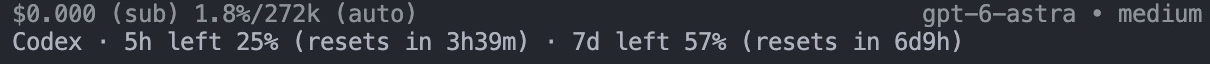
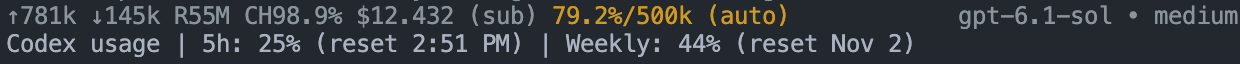
feat: clarify Codex usage with local reset times

diff --git a/tests/usage.test.ts b/tests/usage.test.ts
@@ -39,6 +39,7 @@ function createHost(provider = "openai-codex", mode = "tui", oauth = true) {
   const events = new Map<string, Handler>();
   const commands = new Map<string, Command>();
   const statuses = new Map<string, string>();
+  const setWidget = vi.fn<ExtensionContext["ui"]["setWidget"]>();
   const setStatus = vi.fn<ExtensionContext["ui"]["setStatus"]>((key, text) => {
     if (text === undefined) statuses.delete(key);
     else statuses.set(key, text);
@@ -55,7 +56,7 @@ function createHost(provider = "openai-codex", mode = "tui", oauth = true) {
       isUsingOAuth,
       getProviderAuth,
     },
-    ui: { setStatus },
+    ui: { setStatus, setWidget },
   } as unknown as ExtensionCommandContext;
   const pi = {
     on: (name: string, handler: Handler) => events.set(name, handler),
@@ -65,6 +66,7 @@ function createHost(provider = "openai-codex", mode = "tui", oauth = true) {
   return {
     ctx,
     setStatus,
+    setWidget,
     getProviderAuth,
     isUsingOAuth,
     get status() {
@@ -73,20 +75,22 @@ function createHost(provider = "openai-codex", mode = "tui", oauth = true) {
     async emit(name: string, event: unknown = {}) {
       await events.get(name)?.(event, ctx);
     },
-    async command(name = "usage") {
+    async command(name = "usage", args = "") {
       const command = commands.get(name);
       if (!command) throw new Error(`Command /${name} is not registered`);
-      await command.handler("", ctx);
+      await command.handler(args, ctx);
     },
   };
 }
 
 beforeEach(() => {
+  vi.stubEnv("TZ", "UTC");
   vi.useFakeTimers();
   vi.setSystemTime(new Date("2026-01-01T00:00:00Z"));
 });
 
 afterEach(() => {
+  vi.unstubAllEnvs();
   vi.unstubAllGlobals();
   vi.useRealTimers();
 });
@@ -102,7 +106,8 @@ describe("Codex usage in Pi", () => {
     await host.emit("session_start");
     await vi.advanceTimersByTimeAsync(0);
 
-    expect(host.status).toBe("Codex · 5h left 82% (resets in 2h) · 7d left 66% (resets in 3d)");
+    expect(host.status).toBe("Codex usage | 5h: 82% (reset 2:00 AM) | Weekly: 66% (reset Jan 4)");
+    expect(host.setWidget).not.toHaveBeenCalled();
   });
 
   it("refreshes the displayed quota with /usage", async () => {
@@ -117,7 +122,7 @@ describe("Codex usage in Pi", () => {
 
     await host.command();
 
-    expect(host.status).toBe("Codex · 5h left 49% (resets in 2h) · 7d left 66% (resets in 3d)");
+    expect(host.status).toBe("Codex usage | 5h: 49% (reset 2:00 AM) | Weekly: 66% (reset Jan 4)");
   });
 
   it("polls once per minute instead of continuously", async () => {
@@ -135,7 +140,7 @@ describe("Codex usage in Pi", () => {
     await vi.advanceTimersByTimeAsync(1);
 
     expect(fetchUsage).toHaveBeenCalledTimes(2);
-    expect(host.status).toContain("5h left 49%");
+    expect(host.status).toBe("Codex usage | 5h: 49% (reset 2:00 AM) | Weekly: 66% (reset Jan 4)");
   });
 
   it("does not block startup and shares overlapping manual refreshes", async () => {
@@ -158,7 +163,7 @@ describe("Codex usage in Pi", () => {
 
     respond(quotaResponse());
     await Promise.all([first, second]);
-    expect(host.status).toContain("5h left 82%");
+    expect(host.status).toBe("Codex usage | 5h: 82% (reset 2:00 AM) | Weekly: 66% (reset Jan 4)");
   });
 
   it("keeps the last good quota visibly stale after a failed refresh", async () => {
@@ -172,8 +177,9 @@ describe("Codex usage in Pi", () => {
 
     await host.command();
 
-    expect(host.status).toContain("5h left 82%");
-    expect(host.status).toContain("stale");
+    expect(host.status).toBe(
+      "Codex usage | 5h: 82% (reset 2:00 AM) | Weekly: 66% (reset Jan 4) | stale (0m old)",
+    );
   });
 
   it("shows unknown rather than treating an unsuccessful HTTP response as quota", async () => {
@@ -186,7 +192,7 @@ describe("Codex usage in Pi", () => {
     await host.emit("session_start");
     await vi.advanceTimersByTimeAsync(0);
 
-    expect(host.status).toBe("Codex · usage unknown");
+    expect(host.status).toBe("Codex usage | unknown");
   });
 
   it.each([
@@ -205,7 +211,7 @@ describe("Codex usage in Pi", () => {
     await host.emit("session_start");
     await vi.advanceTimersByTimeAsync(0);
 
-    expect(host.status).toBe("Codex · usage unknown");
+    expect(host.status).toBe("Codex usage | unknown");
   });
 
   it("backs off repeated failures and returns to minute polling after recovery", async () => {
@@ -225,8 +231,7 @@ describe("Codex usage in Pi", () => {
     await vi.advanceTimersByTimeAsync(239_999);
     expect(fetchUsage).toHaveBeenCalledTimes(2);
     await vi.advanceTimersByTimeAsync(1);
-    expect(host.status).toContain("5h left 82%");
-    expect(host.status).not.toContain("stale");
+    expect(host.status).toBe("Codex usage | 5h: 82% (reset 2:00 AM) | Weekly: 66% (reset Jan 4)");
     await vi.advanceTimersByTimeAsync(60_000);
     expect(fetchUsage).toHaveBeenCalledTimes(4);
   });
@@ -278,7 +283,7 @@ describe("Codex usage in Pi", () => {
     host.ctx.model = { ...host.ctx.model!, provider: "openai-codex" };
     await host.emit("model_select", { model: host.ctx.model });
     await vi.advanceTimersByTimeAsync(0);
-    expect(host.status).toContain("5h left 82%");
+    expect(host.status).toBe("Codex usage | 5h: 82% (reset 2:00 AM) | Weekly: 66% (reset Jan 4)");
   });
 
   it("clears the status and polling timer when the extension runtime shuts down", async () => {
@@ -319,7 +324,7 @@ describe("Codex usage in Pi", () => {
     await vi.advanceTimersByTimeAsync(1);
 
     expect(requestSignal?.aborted).toBe(true);
-    expect(host.status).toBe("Codex · usage unknown");
+    expect(host.status).toBe("Codex usage | unknown");
   });
 
   it("also bounds credential resolution and never sends a query with late credentials", async () => {
@@ -336,14 +341,14 @@ describe("Codex usage in Pi", () => {
     await host.emit("session_start");
 
     await vi.advanceTimersByTimeAsync(10_000);
-    expect(host.status).toBe("Codex · usage unknown");
+    expect(host.status).toBe("Codex usage | unknown");
     await host.command();
-    expect(host.status).toContain("5h left 82%");
+    expect(host.status).toBe("Codex usage | 5h: 82% (reset 2:00 AM) | Weekly: 66% (reset Jan 4)");
 
     authenticate({ auth: { apiKey: token } });
     await vi.advanceTimersByTimeAsync(0);
     expect(fetchUsage).toHaveBeenCalledTimes(1);
-    expect(host.status).not.toContain("stale");
+    expect(host.status).toBe("Codex usage | 5h: 82% (reset 2:00 AM) | Weekly: 66% (reset Jan 4)");
   });
 
   it.each(["180", "Thu, 01 Jan 2026 00:03:00 GMT"])(
@@ -367,7 +372,7 @@ describe("Codex usage in Pi", () => {
       expect(fetchUsage).toHaveBeenCalledTimes(1);
       await vi.advanceTimersByTimeAsync(1);
       expect(fetchUsage).toHaveBeenCalledTimes(2);
-      expect(host.status).toContain("5h left 82%");
+      expect(host.status).toBe("Codex usage | 5h: 82% (reset 2:00 AM) | Weekly: 66% (reset Jan 4)");
     },
   );
 
@@ -405,7 +410,7 @@ describe("Codex usage in Pi", () => {
     await vi.advanceTimersByTimeAsync(0);
 
     expect(fetchUsage).not.toHaveBeenCalled();
-    expect(host.status).toBe("Codex · usage unknown");
+    expect(host.status).toBe("Codex usage | unknown");
   });
 
   it.each([
@@ -426,7 +431,7 @@ describe("Codex usage in Pi", () => {
 
     await host.command();
 
-    expect(host.status).toBe("Codex · usage unknown");
+    expect(host.status).toBe("Codex usage | unknown");
   });
 
   it("hides previous quota and stops polling when OAuth is no longer available", async () => {
@@ -472,10 +477,10 @@ describe("Codex usage in Pi", () => {
     await host.command();
 
     expect(fetchUsage).toHaveBeenCalledTimes(3);
-    expect(host.status).toContain("5h left 49%");
+    expect(host.status).toBe("Codex usage | 5h: 49% (reset 2:00 AM) | Weekly: 66% (reset Jan 4)");
   });
 
-  it("keeps day-scale reset countdowns informative after a minute elapses", async () => {
+  it("keeps absolute reset times stable without redrawing unchanged data", async () => {
     vi.stubGlobal(
       "fetch",
       vi.fn(async () => quotaResponse()),
@@ -484,12 +489,11 @@ describe("Codex usage in Pi", () => {
     await host.emit("session_start");
     await vi.advanceTimersByTimeAsync(60_000);
 
-    expect(host.status).toBe(
-      "Codex · 5h left 82% (resets in 1h59m) · 7d left 66% (resets in 2d23h)",
-    );
+    expect(host.status).toBe("Codex usage | 5h: 82% (reset 2:00 AM) | Weekly: 66% (reset Jan 4)");
+    expect(host.setStatus).toHaveBeenCalledTimes(1);
   });
 
-  it("updates stale countdowns once a minute without bypassing network backoff", async () => {
+  it("updates stale age once a minute without bypassing network backoff", async () => {
     const fetchUsage = vi
       .fn<typeof fetch>()
       .mockResolvedValueOnce(quotaResponse())
@@ -504,7 +508,21 @@ describe("Codex usage in Pi", () => {
 
     expect(fetchUsage).toHaveBeenCalledTimes(2);
     expect(host.status).toBe(
-      "Codex · 5h left 82% (resets in 1h59m) · 7d left 66% (resets in 2d23h) · stale (1m old)",
+      "Codex usage | 5h: 82% (reset 2:00 AM) | Weekly: 66% (reset Jan 4) | stale (1m old)",
     );
+  });
+
+  it("uses the local timezone for reset clocks and dates across date boundaries", async () => {
+    vi.stubEnv("TZ", "America/Los_Angeles");
+    vi.stubGlobal(
+      "fetch",
+      vi.fn(async () => quotaResponse()),
+    );
+    const host = createHost();
+
+    await host.emit("session_start");
+    await vi.advanceTimersByTimeAsync(0);
+
+    expect(host.status).toBe("Codex usage | 5h: 82% (reset 6:00 PM) | Weekly: 66% (reset Jan 3)");
   });
 });

diff --git a/.pi/extensions/usage.ts b/.pi/extensions/usage.ts
@@ -51,11 +51,6 @@ function duration(milliseconds: number): string {
   return `${minutes}m`;
 }
 
-function formatWindow(window: QuotaWindow): string {
-  const label = duration(window.limit_window_seconds * 1_000);
-  return `${label} left ${100 - window.used_percent}% (resets in ${duration(window.reset_at * 1_000 - Date.now())})`;
-}
-
 function eligible(ctx: ExtensionContext): boolean {
   return (
     ctx.mode === "tui" &&
@@ -65,6 +60,12 @@ function eligible(ctx: ExtensionContext): boolean {
 }
 
 export default function usageExtension(pi: ExtensionAPI): void {
+  const timeFormat = new Intl.DateTimeFormat("en-US", {
+    hour: "numeric",
+    minute: "2-digit",
+    hour12: true,
+  });
+  const dateFormat = new Intl.DateTimeFormat("en-US", { month: "short", day: "numeric" });
   let timer: ReturnType<typeof setTimeout> | undefined;
   let inFlight: Promise<void> | undefined;
   let snapshot: { windows: QuotaWindow[]; fetchedAt: number; accountId: string } | undefined;
@@ -74,6 +75,14 @@ export default function usageExtension(pi: ExtensionAPI): void {
   let requestAbort: AbortController | undefined;
   let retryAt = 0;
   let displayed: string | undefined;
+
+  function formatWindow(window: QuotaWindow): string {
+    const weekly = window.limit_window_seconds === 604_800;
+    const label = weekly ? "Weekly" : duration(window.limit_window_seconds * 1_000);
+    const remaining = `${100 - window.used_percent}%`;
+    const reset = (weekly ? dateFormat : timeFormat).format(new Date(window.reset_at * 1_000));
+    return `${label}: ${remaining} (reset ${reset})`;
+  }
 
   function stop(ctx: ExtensionContext): void {
     generation++;
@@ -92,13 +101,12 @@ export default function usageExtension(pi: ExtensionAPI): void {
 
   function render(ctx: ExtensionContext): void {
     let text = snapshot
-      ? `Codex · ${snapshot.windows.map(formatWindow).join(" · ")}`
-      : "Codex · usage unknown";
-    if (snapshot && stale) text += ` · stale (${duration(Date.now() - snapshot.fetchedAt)} old)`;
-    if (text !== displayed) {
-      ctx.ui.setStatus(STATUS_KEY, text);
-      displayed = text;
-    }
+      ? `Codex usage | ${snapshot.windows.map(formatWindow).join(" | ")}`
+      : "Codex usage | unknown";
+    if (snapshot && stale) text += ` | stale (${duration(Date.now() - snapshot.fetchedAt)} old)`;
+    if (text === displayed) return;
+    ctx.ui.setStatus(STATUS_KEY, text);
+    displayed = text;
   }
 
   function schedule(ctx: ExtensionContext, delay: number): void {

diff --git a/README.md b/README.md
@@ -24,10 +24,20 @@ pi update git:github.com/fortune-cook1e/i-know-you-usage
 
 Run `/reload` afterward.
 
+## Uninstall globally
+
+```sh
+pi remove git:github.com/fortune-cook1e/i-know-you-usage
+```
+
+Restart Pi or run `/reload`. This removes the global install; the project extension still loads when running Pi inside a local checkout.
+
 ## Use
 
 Sign in through `/login` with the `openai-codex` provider, then select one of its models with `/model`.
 
-![Codex quota and reset countdowns in Pi's footer](assets/usage-footer.png)
+![Codex usage with remaining quota and reset times in Pi's footer](assets/usage-footer.png)
 
-Refreshes automatically every 60 seconds. Run `/usage` to refresh manually. Failed queries show the last result as `stale`, or `usage unknown` if no result is available.
+Percentages show remaining quota. Reset times and dates use your local timezone.
+
+Refreshes automatically every 60 seconds. Run `/usage` to refresh manually. Failed queries show the last result as `stale`, or `unknown` if no result is available.
